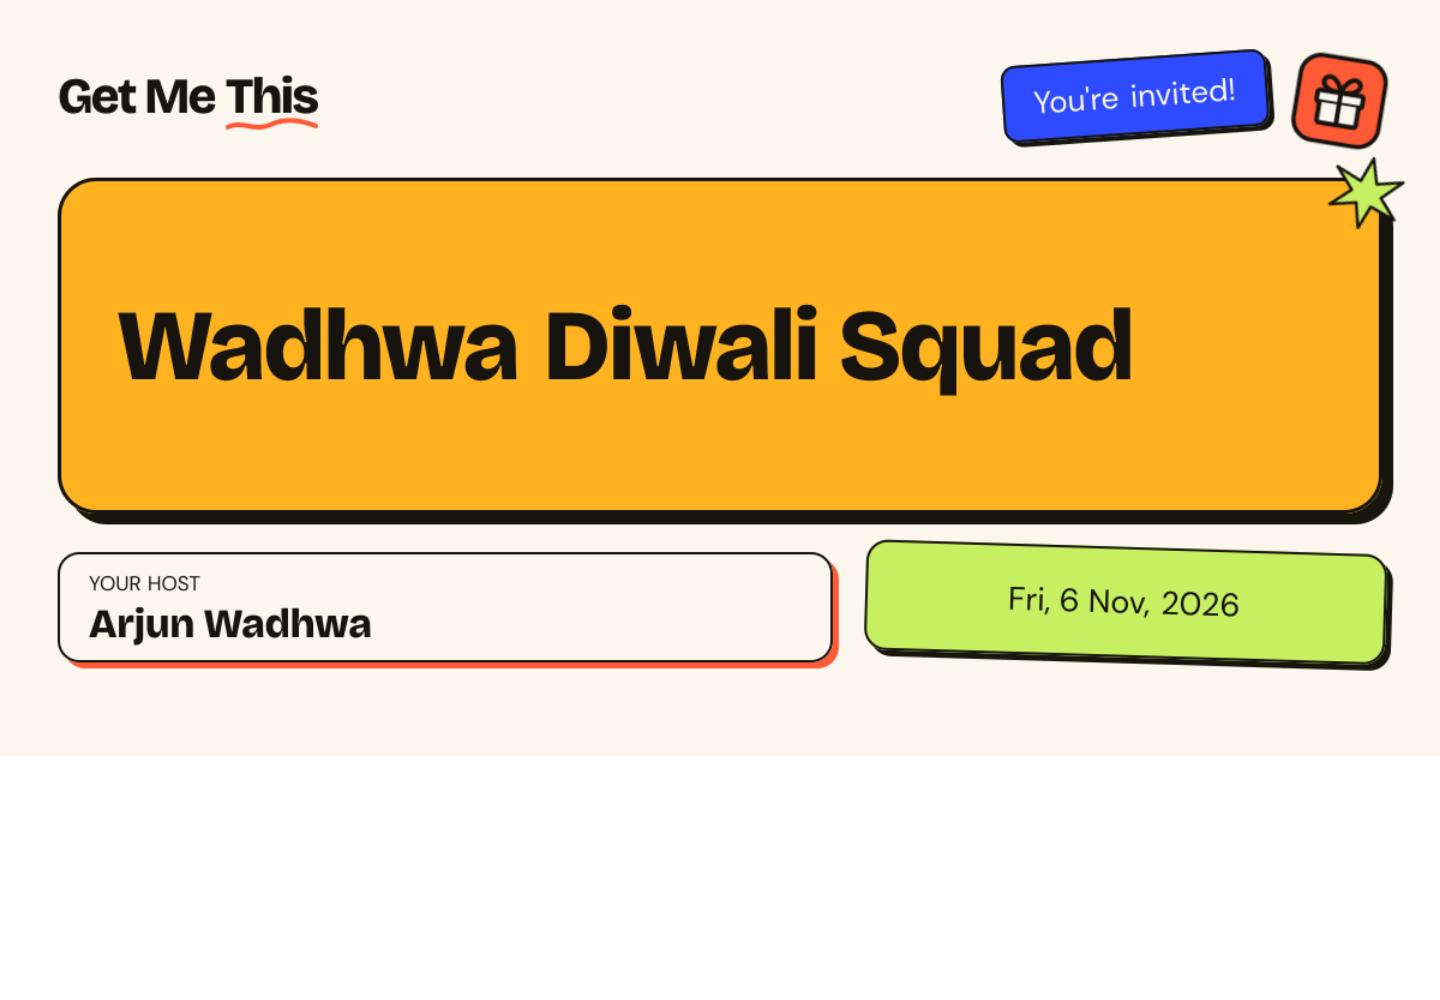
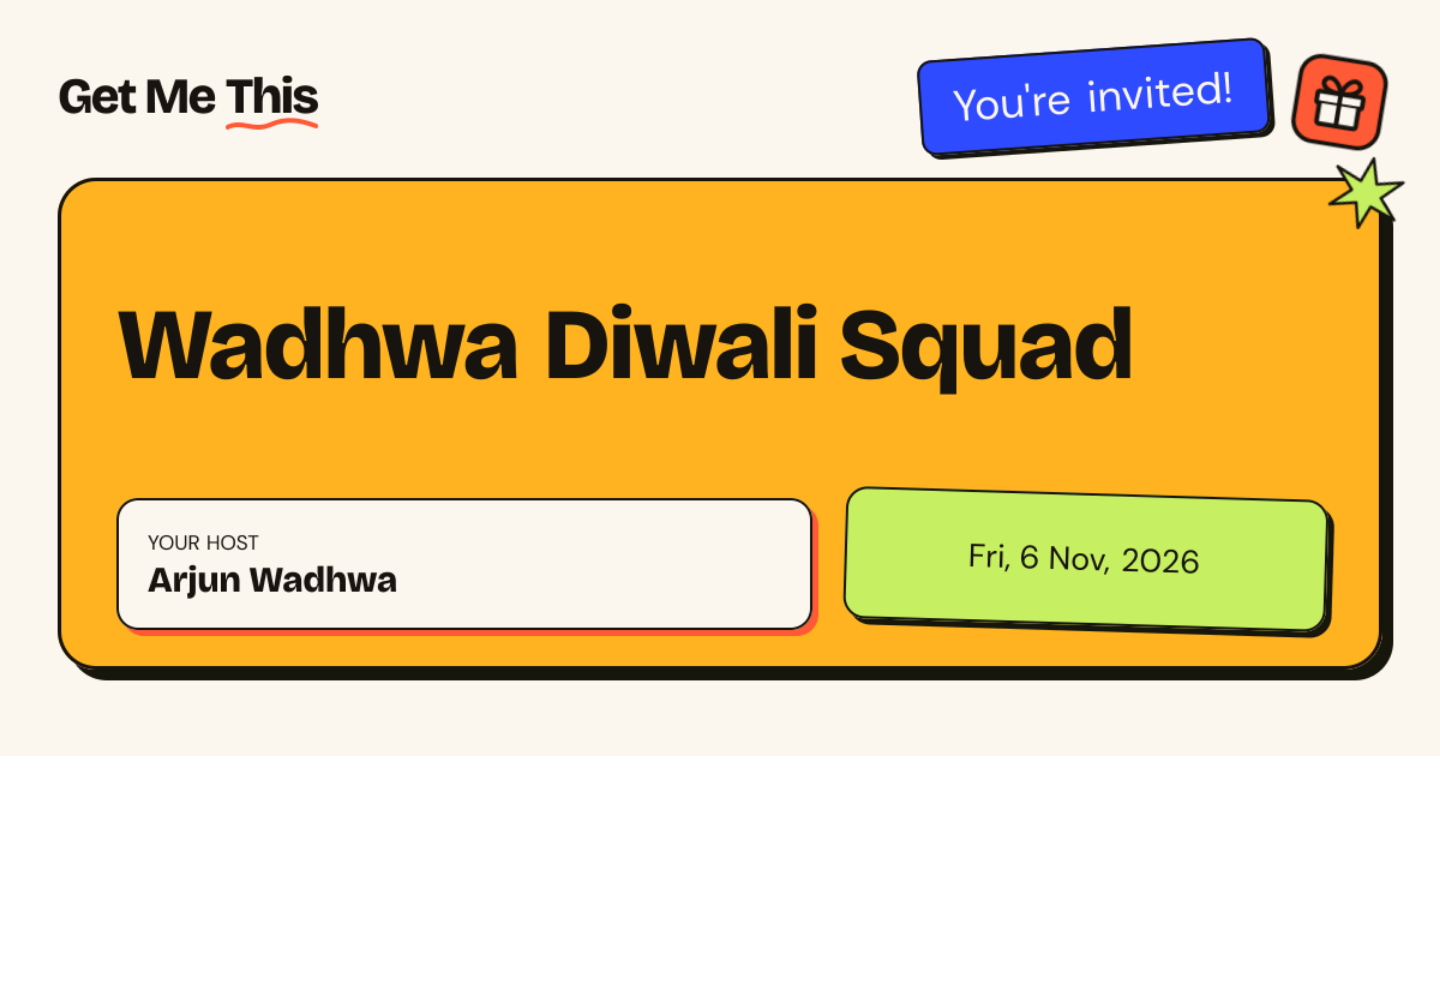
refine: keep invitation details together and enlarge invite label

diff --git a/src/invite/share-image.tsx b/src/invite/share-image.tsx
@@ -68,8 +68,8 @@ export async function invitationShareImage(preview: InvitationSharePreview) {
             style={{
               background: c.blue,
               color: c.paper,
-              padding: "13px 24px",
-              fontSize: 26,
+              padding: "14px 26px",
+              fontSize: 36,
               border: `2px solid ${c.ink}`,
               borderRadius: 12,
               transform: "rotate(-4deg)",
@@ -93,7 +93,8 @@ export async function invitationShareImage(preview: InvitationSharePreview) {
           display: "flex",
           position: "relative",
           marginTop: 30,
-          height: 280,
+          height: 410,
+          flexDirection: "column",
           flexShrink: 0,
           background: c.yellow,
           border: `3px solid ${c.ink}`,
@@ -107,6 +108,8 @@ export async function invitationShareImage(preview: InvitationSharePreview) {
           style={{
             display: "flex",
             width: "100%",
+            flex: 1,
+            alignItems: "center",
             fontFamily: "Bricolage Grotesque",
             fontWeight: 800,
             fontSize:
@@ -143,55 +146,64 @@ export async function invitationShareImage(preview: InvitationSharePreview) {
             strokeLinejoin="round"
           />
         </svg>
-      </div>
-      <div style={{ display: "flex", marginTop: 32, height: 92, gap: 24 }}>
         <div
           style={{
             display: "flex",
-            width: 646,
-            flexDirection: "column",
-            justifyContent: "center",
-            padding: "12px 24px",
-            border: `2px solid ${c.ink}`,
-            borderRadius: 18,
-            background: c.paper,
-            boxShadow: `5px 5px 0 ${c.tomato}`,
+            width: "100%",
+            marginTop: 22,
+            height: 110,
+            flexShrink: 0,
+            gap: 24,
           }}
         >
-          <span style={{ fontSize: 17, marginBottom: 4 }}>YOUR HOST</span>
-          <span
+          <div
             style={{
-              fontFamily: "Bricolage Grotesque",
-              fontWeight: 800,
-              fontSize:
-                preview.organizerName.length > 90
-                  ? 14
-                  : preview.organizerName.length > 60
-                    ? 20
-                    : preview.organizerName.length > 30
-                      ? 26
-                      : 34,
-              lineHeight: 1.1,
+              display: "flex",
+              width: 580,
+              flexDirection: "column",
+              justifyContent: "center",
+              padding: "12px 24px",
+              border: `2px solid ${c.ink}`,
+              borderRadius: 18,
+              background: c.paper,
+              boxShadow: `5px 5px 0 ${c.tomato}`,
             }}
           >
-            {preview.organizerName}
-          </span>
-        </div>
-        <div
-          style={{
-            display: "flex",
-            flex: 1,
-            alignItems: "center",
-            justifyContent: "center",
-            background: c.lime,
-            border: `2px solid ${c.ink}`,
-            borderRadius: 18,
-            boxShadow: `5px 5px 0 ${c.ink}`,
-            transform: "rotate(2deg)",
-            fontSize: 27,
-          }}
-        >
-          {preview.date}
+            <span style={{ fontSize: 17, marginBottom: 4 }}>YOUR HOST</span>
+            <span
+              style={{
+                fontFamily: "Bricolage Grotesque",
+                fontWeight: 800,
+                fontSize:
+                  preview.organizerName.length > 90
+                    ? 13
+                    : preview.organizerName.length > 60
+                      ? 16
+                      : preview.organizerName.length > 30
+                        ? 20
+                        : 30,
+                lineHeight: 1.1,
+              }}
+            >
+              {preview.organizerName}
+            </span>
+          </div>
+          <div
+            style={{
+              display: "flex",
+              flex: 1,
+              alignItems: "center",
+              justifyContent: "center",
+              background: c.lime,
+              border: `2px solid ${c.ink}`,
+              borderRadius: 18,
+              boxShadow: `5px 5px 0 ${c.ink}`,
+              transform: "rotate(2deg)",
+              fontSize: 27,
+            }}
+          >
+            {preview.date}
+          </div>
         </div>
       </div>
     </div>,

diff --git a/docs/delivery/evidence/invitation-sharing/README.md b/docs/delivery/evidence/invitation-sharing/README.md
@@ -24,18 +24,22 @@ under AGENTS.md. The exact repair is documented in
 - [x] “As colorful and as quirky as possible.” Uses the app's marigold,
   electric blue, tomato, lime and paper tokens, the existing gift mark, a
   star doodle, tilted invitation/date stickers and offset shadows.
+- [x] “Move the host and date within the box which has group name” and
+  “increase the size of you're invited.” Both details now sit inside the
+  marigold card, and the invitation sticker text grows from 26px to 36px.
 - [ ] Apply the production repair and verify the user's real group. No
   production mutation has been performed or claimed as complete.
 
 ## Automated proof
 
-- `pnpm verify`: format, lint, strict types, unit/component tests and build.
-  Final result recorded in the PR. Two pre-existing unrelated lint warnings
+- `pnpm verify`: format, lint, strict types, 163 files / 1,583 unit/component
+  tests and build passed on the main base including merged PR #84.
+  Two pre-existing unrelated lint warnings
   remain in copy-button.tsx and redraw-section.test.tsx.
-- Full local database suite, including the new three-field projection,
+- Full local database suite: 28 suites / 1,881 assertions passed, including the new three-field projection,
   malformed/unknown capabilities, join-capability separation, live organizer
   name, group-zone midnight rollover, no use/membership changes, and denial
-  for expired, revoked, exhausted, targeted and inactive-group invitations.
+  for expired, revoked, exhausted, targeted, archived and deleted-group invitations.
 - 14 browser tests passed across 390×844 and 1440×1000: organizer modal stable
   reopening; non-organizer denial; signed-out OTP/onboarding/final Join;
   signed-in joining; invalid tokens; foreign-origin replay denial; pending
@@ -60,6 +64,12 @@ Its responsive display is captured at [desktop](banner-desktop.png) and
 [mobile](banner-mobile.png). The same synthetic group, organizer and occasion
 are used at both widths. These screenshots show the image itself; they do not
 claim an actual WhatsApp/other third-party card render.
+
+The user's final layout revision has exact before comparisons from the banner
+shown earlier in this conversation: [desktop before](banner-before-desktop.png)
+and [mobile before](banner-before-mobile.png). Same image endpoint, group fixture,
+viewport and display state; only the requested layout/sticker size changed.
+These are design-iteration comparisons, not pre-existing production banners.
 
 The ordinary guest preview is captured at [desktop](invite-browser-desktop.png)
 and [mobile](invite-browser-mobile.png). The organizer modal is captured at
